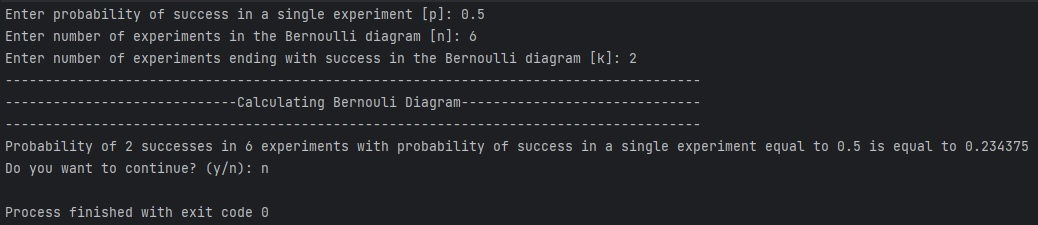
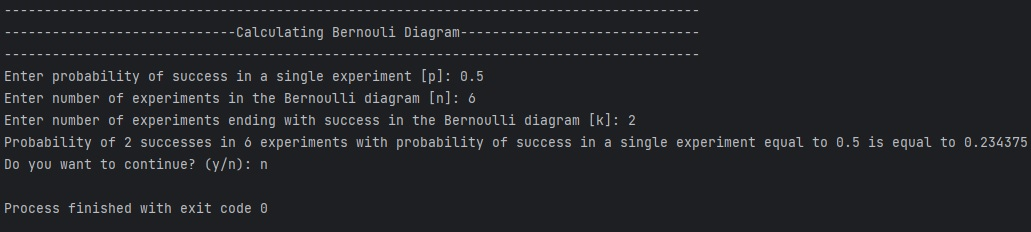
31.05.23

diff --git a/Laboratoria/Lab 07/main.cpp b/Laboratoria/Lab 07/main.cpp
@@ -16,6 +16,11 @@ int main() {
         // Number of experiments ending with success in the Bernoulli diagram
         int k;
 
+        // Calculate probability with BernouliDiagram
+        cout << "---------------------------------------------------------------------------------------\n";
+        cout << "-----------------------------Calculating Bernouli Diagram------------------------------\n";
+        cout << "---------------------------------------------------------------------------------------\n";
+
         // Get user input
         cout << "Enter probability of success in a single experiment [p]: ";
         cin >> p;
@@ -26,21 +31,16 @@ int main() {
         cout << "Enter number of experiments ending with success in the Bernoulli diagram [k]: ";
         cin >> k;
 
-        // Calculate probability with BernouliDiagram
-        cout << "---------------------------------------------------------------------------------------\n";
-        cout << "-----------------------------Calculating Bernouli Diagram------------------------------\n";
-        cout << "---------------------------------------------------------------------------------------\n";
+        // Print result
         cout << "Probability of " << k << " successes in " << n << " experiments with probability of success in a single experiment equal to " << p << " is equal to " << bernouliDiagram->bernouliDiagram(p, n, k) << endl;
-
-
 
         // Get user input
         string userInput;
         cout << "Do you want to continue? (y/n): ";
         cin >> userInput;
-
         // Check if user wants to continue
         while(true) {
+            // Check if user wants to continue
             if(userInput == "y") {
                 break;
             } else if(userInput == "n") {
@@ -49,6 +49,8 @@ int main() {
             } else {
                 cout << "Wrong input" << endl;
             }
+            // Get user input
+            cin >> userInput;
         }
     }
 

diff --git a/Laboratoria/Lab 08/Lab 08a/main.cpp b/Laboratoria/Lab 08/Lab 08a/main.cpp
@@ -10,7 +10,7 @@ int main() {
     Shop * shop = new Shop("Lidl", "Supermarket", "Large", "8:00 - 22:00",
                            // Create flagship product
                            // Product parameters: name: string, quantity: int, composition: string, weight: float, expirationDate: string
-                           new Product("Flour", 100, "Wheat", 1.5, "01.01.2023"));
+                           new Product("Bread", 100, "Flour, water, yeast", 0.5, "2023-06-06"));
 
     // Print shop
     cout << "---------------------------------------------------------------------------------------\n";
